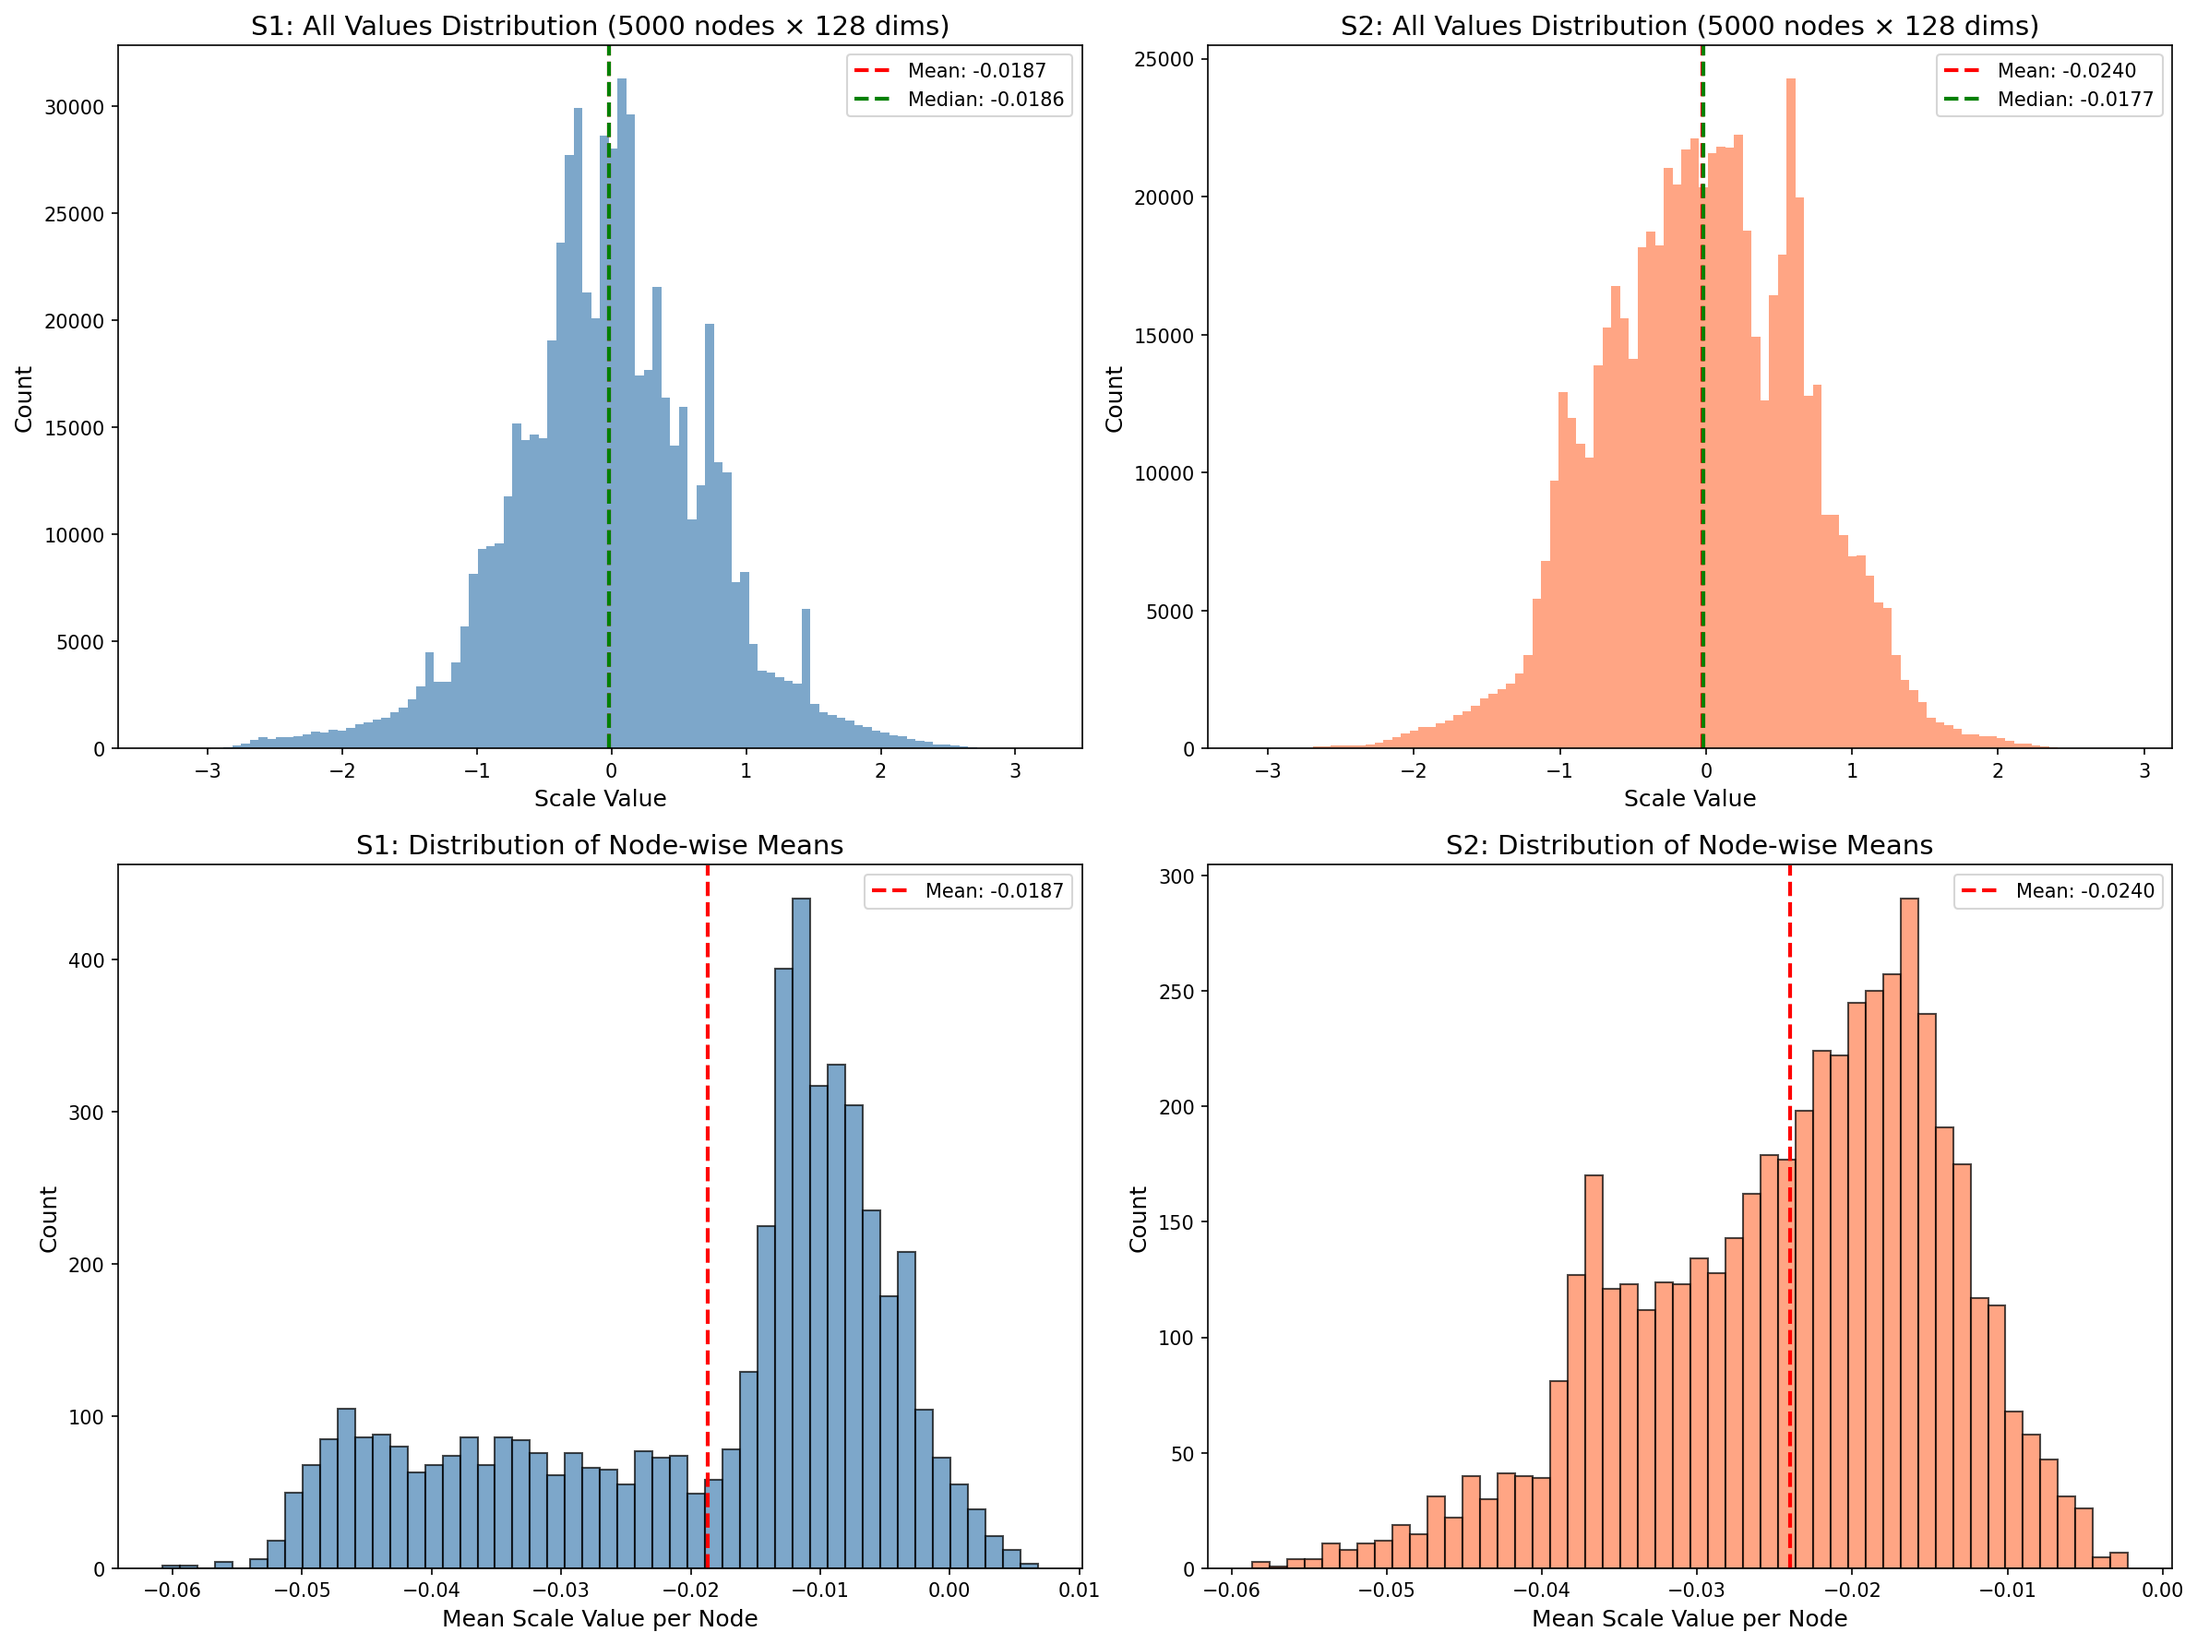
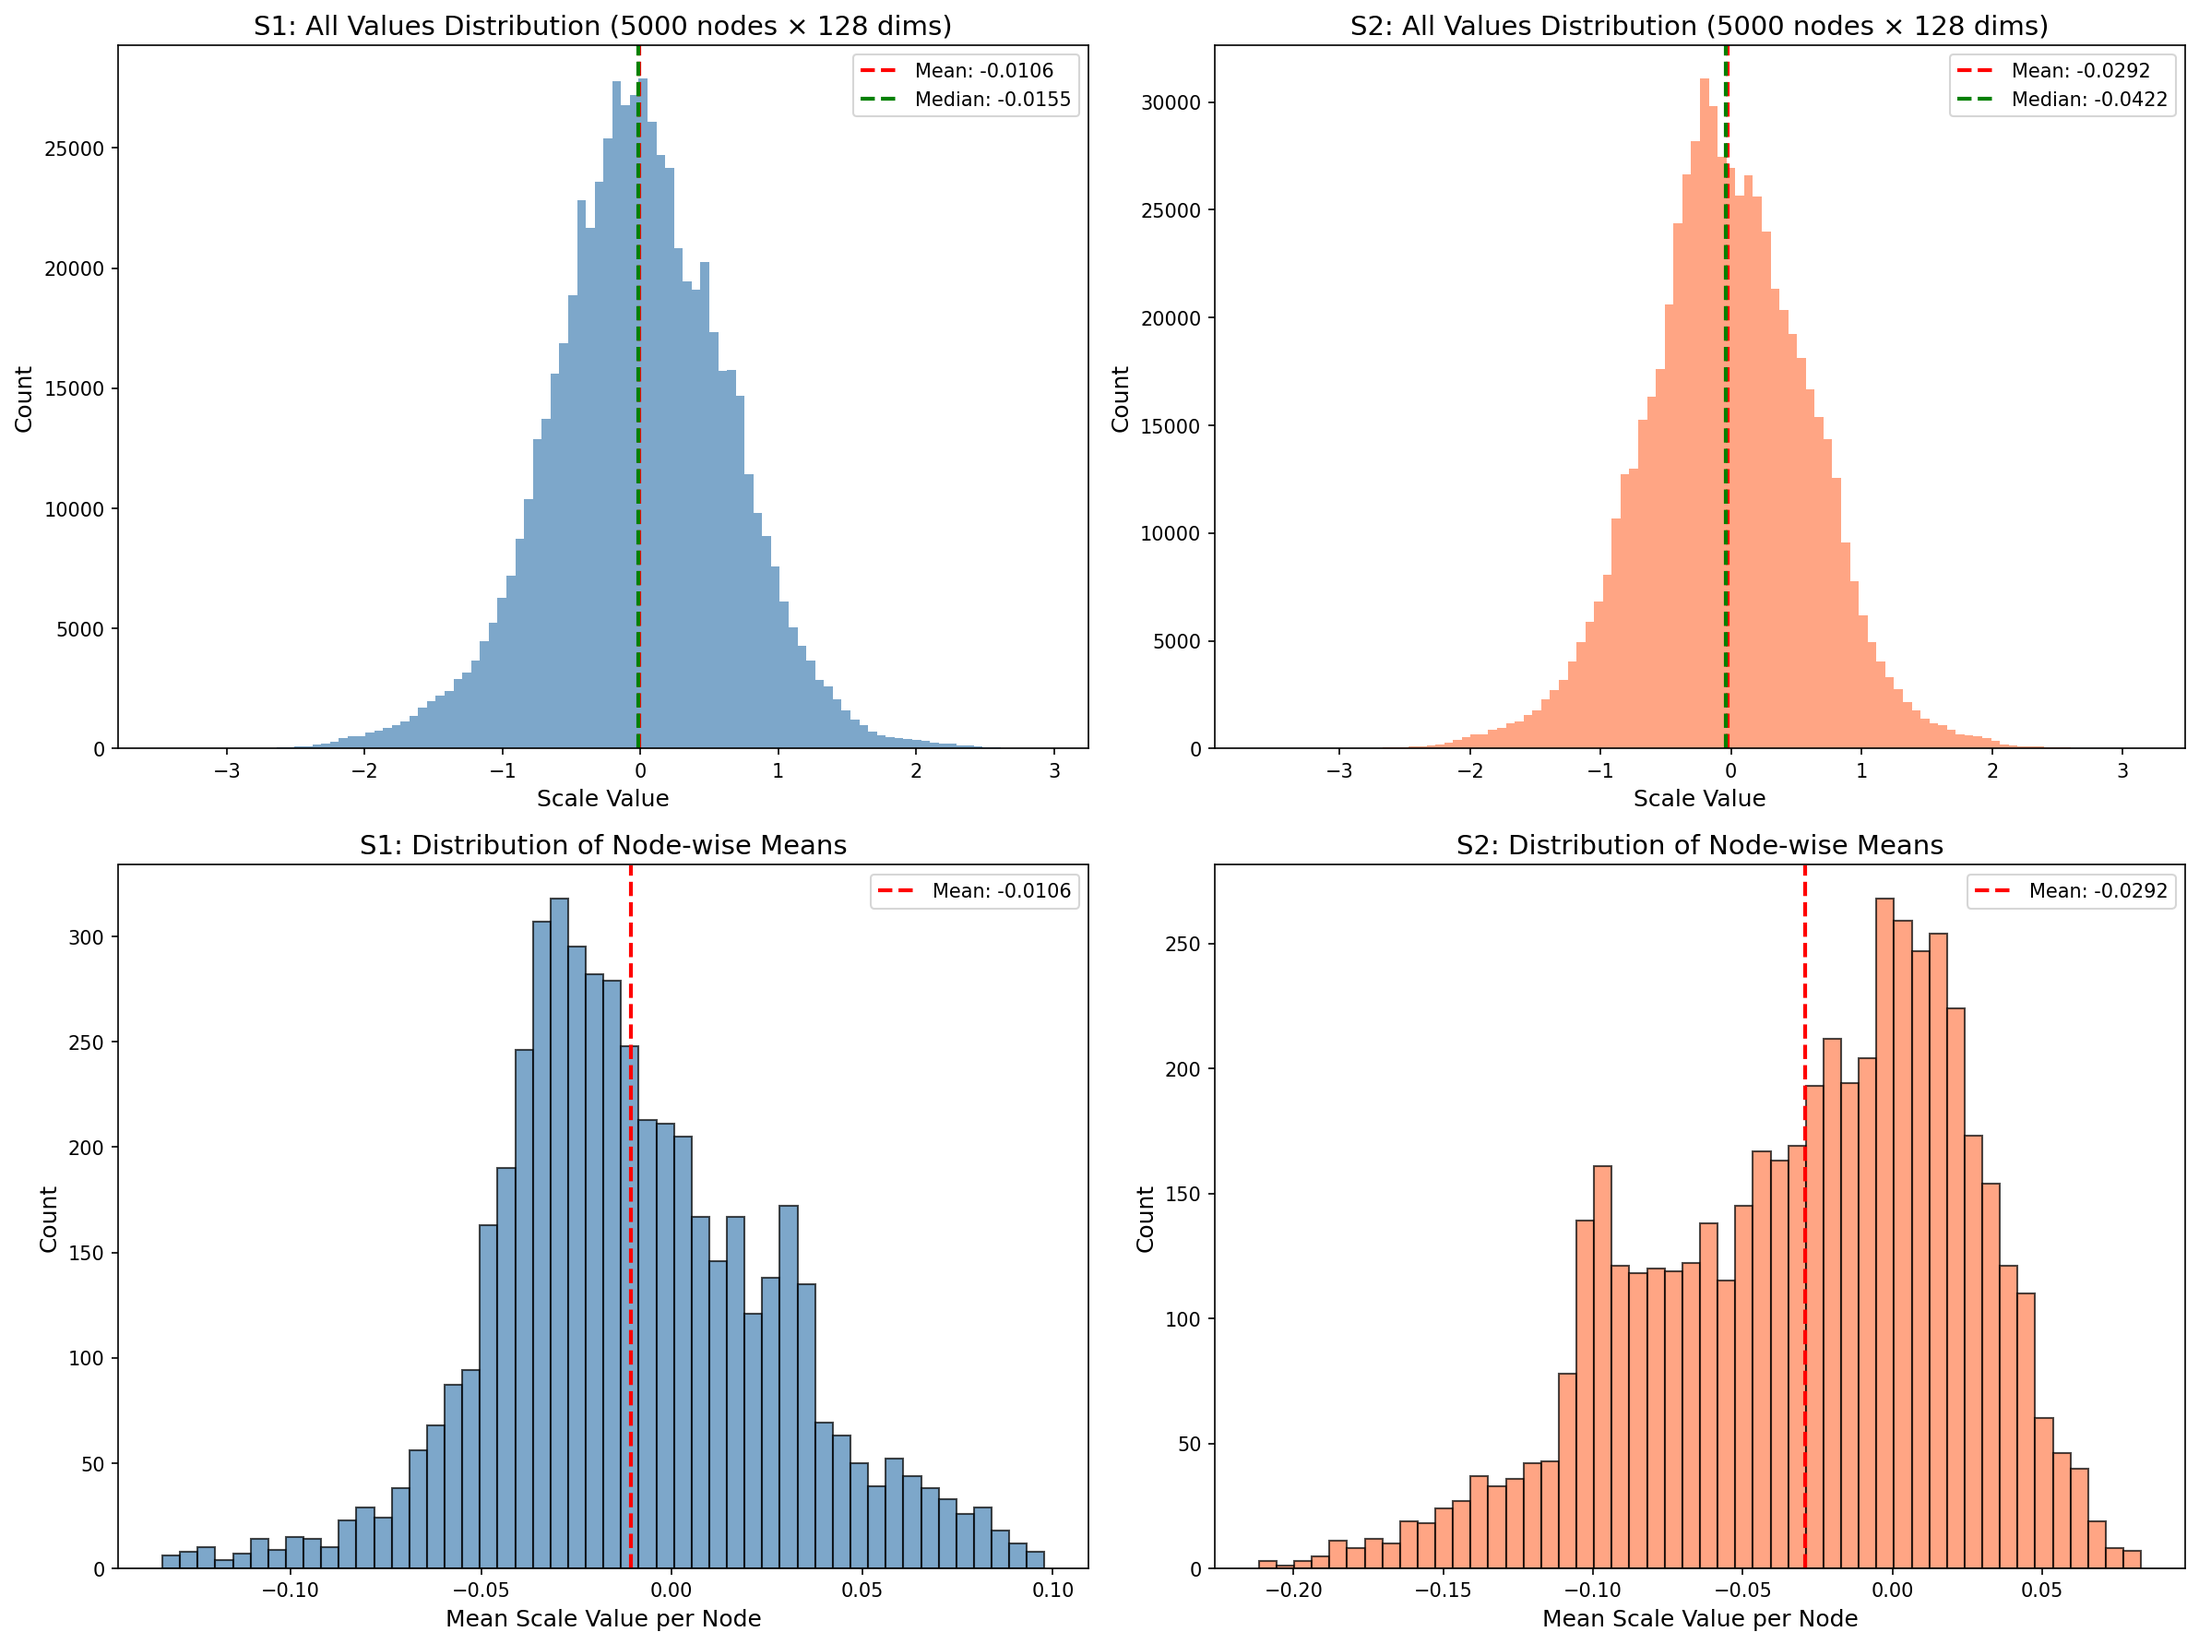
feat: import z-clip

diff --git a/src/main.py b/src/main.py
@@ -25,7 +25,6 @@ DEFAULT_CONFIG = {
     "task": {
         "dataset": "moon",
         "n": 5000,
-        "m": 500,
         "train_ratio": 0.7
     },
     "graph": {
@@ -146,6 +145,10 @@ def compute_symmetric_graph_features(A, n):
     
     return in_deg, clust
 
+def z_score_normalize(arr):
+    """Z-score normalization for features to make neural network training stable."""
+    return (arr - np.mean(arr)) / (np.std(arr) + 1e-9)
+
 def prepare_data(n, dataset_name="moon", train_ratio=0.7):
     """Prepare dataset and distance matrix."""
     if dataset_name.lower() == "moon":
@@ -174,6 +177,7 @@ def prepare_knn_features(D, n, graph_cfg):
     
     pr_knn = stationary(A_knn)
     pr_knn = np.maximum(pr_knn, 1e-9)
+    pr_knn = np.clip(pr_knn, a_min=None, a_max=5.0)
 
     G_nx_knn = nx.from_scipy_sparse_array(A_knn, create_using=nx.DiGraph)
     in_deg_knn = np.array([G_nx_knn.in_degree(i) for i in range(n)])
@@ -183,7 +187,12 @@ def prepare_knn_features(D, n, graph_cfg):
     clust_knn = np.array([clust_knn[i] for i in range(n)])
     clust_knn = clust_knn / (np.mean(clust_knn) + 1e-9)
 
-    density_np_knn = np.vstack([pr_knn, in_deg_knn, clust_knn]).T
+    # Normalize features
+    pr_norm = z_score_normalize(pr_knn)
+    in_deg_norm = z_score_normalize(in_deg_knn)
+    clust_norm = z_score_normalize(clust_knn)
+
+    density_np_knn = np.vstack([pr_norm, in_deg_norm, clust_norm]).T
     density_knn = torch.FloatTensor(density_np_knn)
     
     return A_knn, edge_index_knn, density_knn
@@ -204,10 +213,17 @@ def prepare_eball_features(D, n, graph_cfg):
     
     pr_eball = stationary(A_eball)
     pr_eball = np.maximum(pr_eball, 1e-9)
+    # Clip extreme values to prevent scaling collapse (cap at 5.0, mean is 1.0)
+    pr_eball = np.clip(pr_eball, a_min=None, a_max=5.0)
 
     in_deg_eball, clust_eball = compute_symmetric_graph_features(A_eball, n)
 
-    density_np_eball = np.vstack([pr_eball, in_deg_eball, clust_eball]).T
+    # Normalize features to mean 0, std 1 to stabilize NN scale generation
+    pr_norm = z_score_normalize(pr_eball)
+    in_deg_norm = z_score_normalize(in_deg_eball)
+    clust_norm = z_score_normalize(clust_eball)
+
+    density_np_eball = np.vstack([pr_norm, in_deg_norm, clust_norm]).T
     density_eball = torch.FloatTensor(density_np_eball)
     
     return A_eball, edge_index_eball, density_eball
@@ -438,7 +454,6 @@ def main():
     parser.add_argument("--dataset", type=str, default=None,
                         help="Dataset name: moon, circles, spiral, swissroll2d, scurve2d, clusters, grid, ring, line, wave")
     parser.add_argument("--n", type=int, default=None, help="Number of samples")
-    parser.add_argument("--m", type=int, default=None, help="Landmark size")
     args = parser.parse_args()
 
     config = load_config(args.config)
@@ -450,7 +465,6 @@ def main():
     viz_cfg = config.get("visualization", {})
     
     n = args.n if args.n is not None else int(task_cfg.get("n", 5000))
-    m = args.m if args.m is not None else int(task_cfg.get("m", 500))
     dataset_name = args.dataset if args.dataset is not None else task_cfg.get("dataset", "moon")
     train_ratio = float(task_cfg.get("train_ratio", 0.7))
 
@@ -459,9 +473,9 @@ def main():
 
     seed = int(runtime_cfg.get("seed", 0))
     seed_everything(seed)
-    
+
     logger.info(f"🚀 Running on dataset: {dataset_name}")
-    logger.info(f"📌 Config: n={n}, m={m}, train_ratio={train_ratio}, seed={seed}")
+    logger.info(f"📌 Config: n={n}, train_ratio={train_ratio}, seed={seed}")
     
     x, train_ind, D, n = prepare_data(n, dataset_name, train_ratio)
     
@@ -480,7 +494,7 @@ def main():
     logger.info(f"✅ Scale visualizations saved to: {scale_output_dir}")
 
     # logger.info("🔥 start knn training...")
-    # aligned_knn, score_knn = run_training(n, m, x, train_ind, edge_index_knn, density_knn, A_knn, "KNN", training_cfg, graph_cfg)
+    # aligned_knn, score_knn, s1_knn, s2_knn = run_training(n, x, train_ind, edge_index_knn, density_knn, A_knn, "KNN", training_cfg, graph_cfg)
     # viz_results["GraphSAGE_SimpleScale_KNN"] = (aligned_knn, score_knn)
     
 
